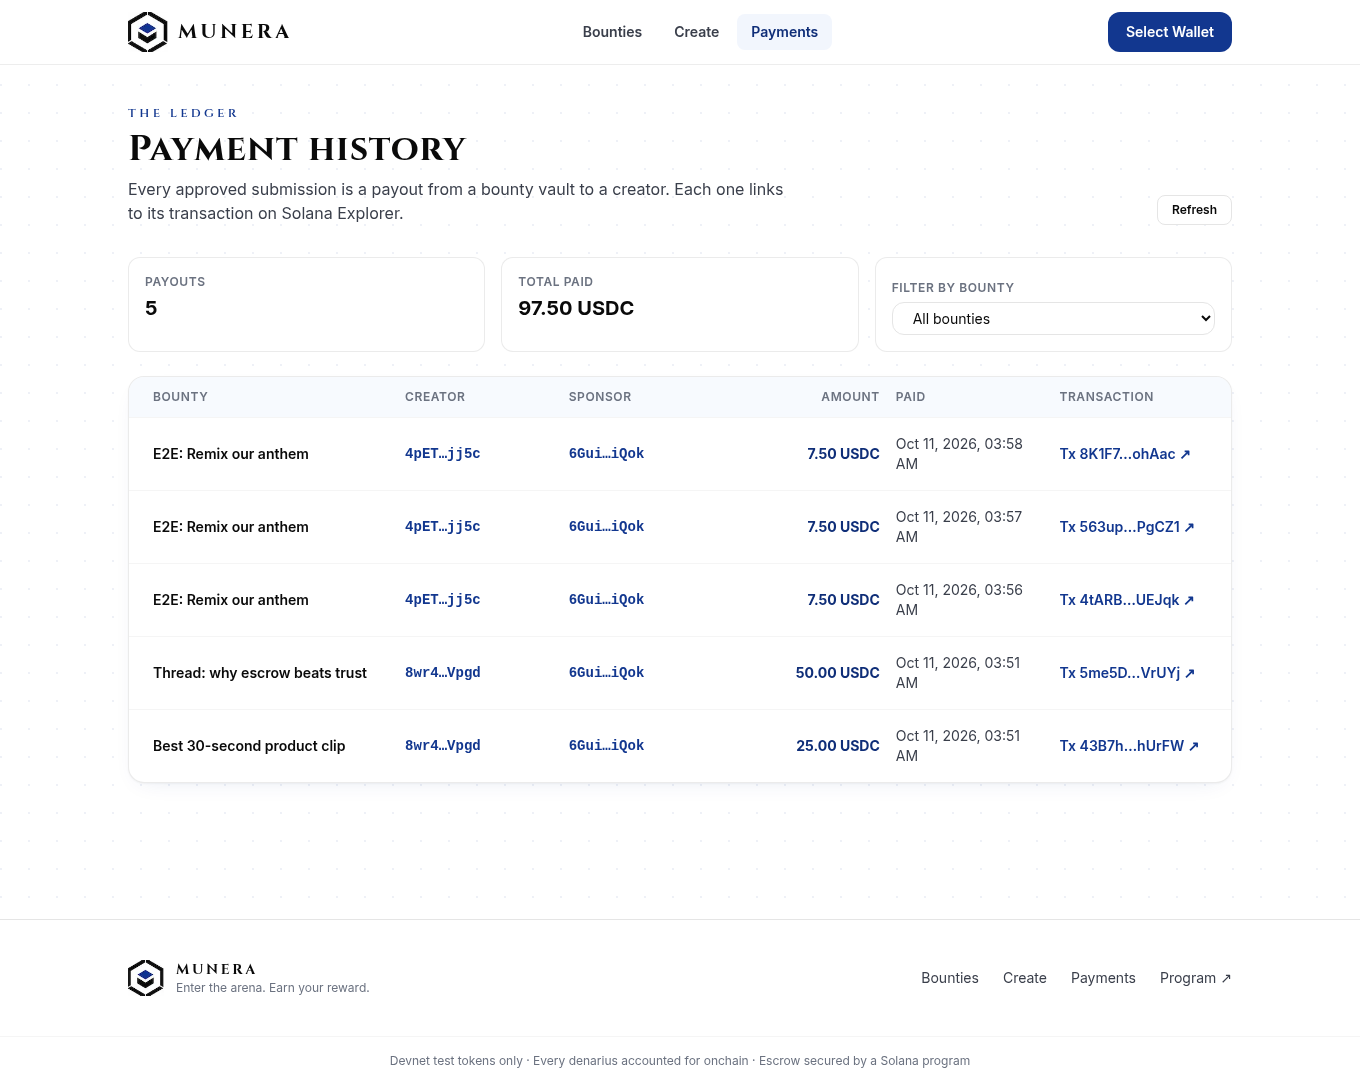
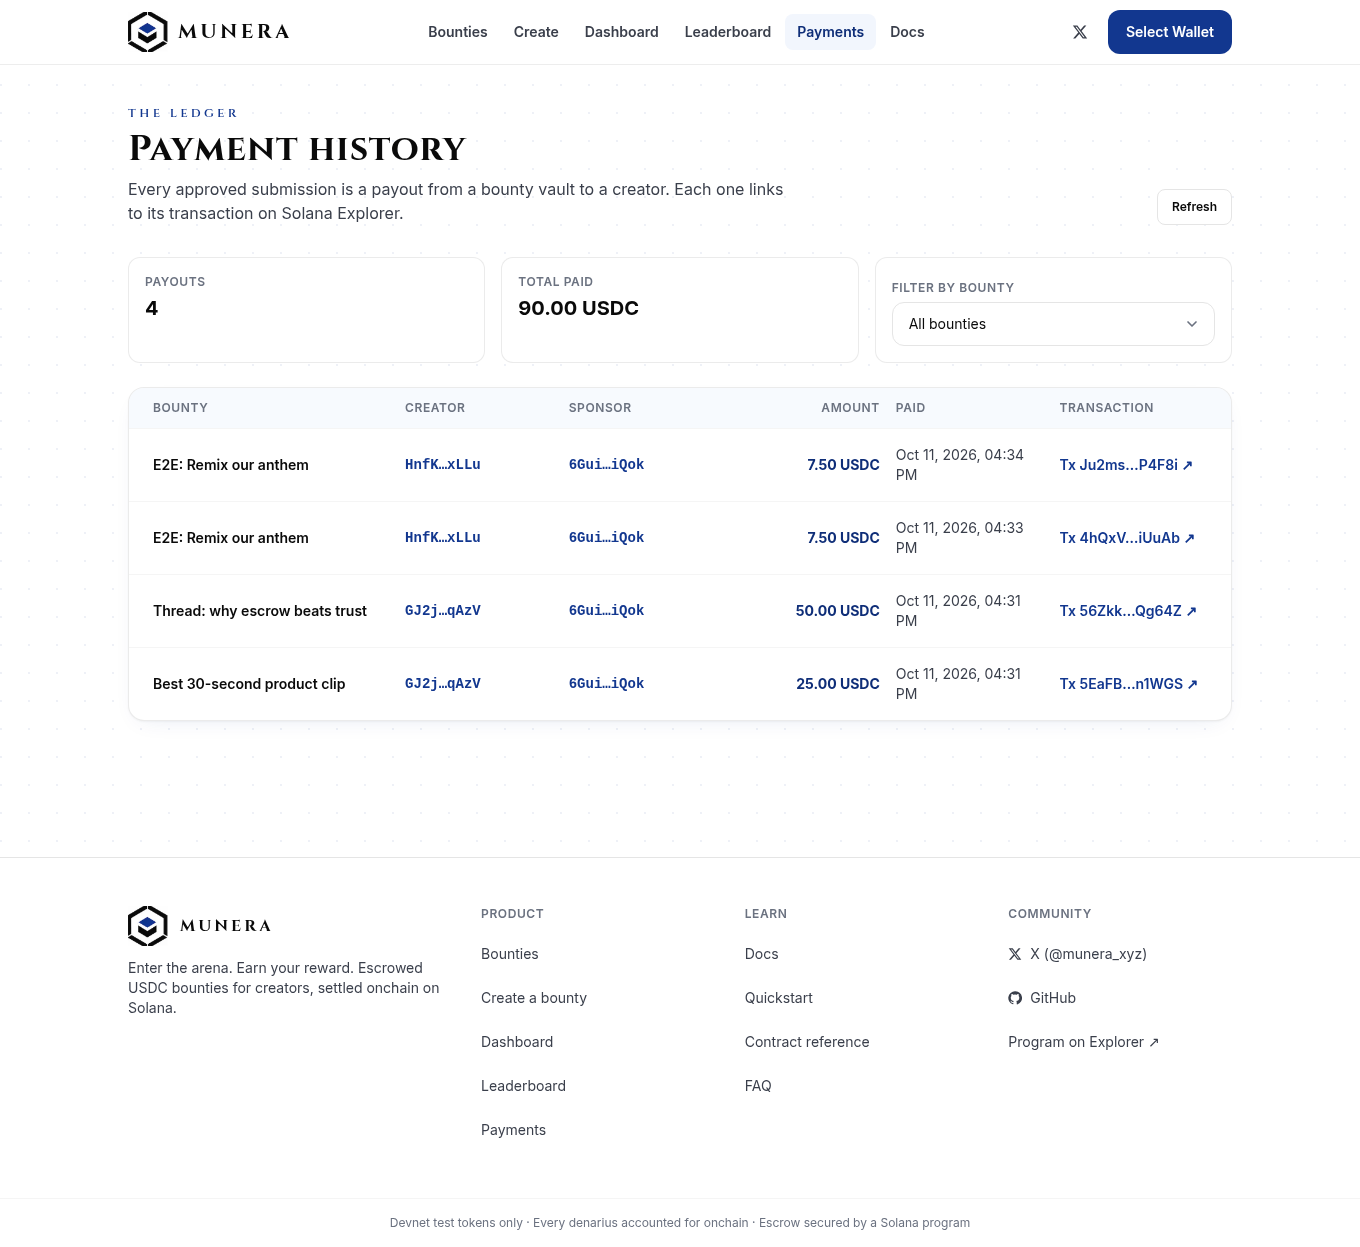
README features/docs/X links, e2e + data verification for new pages, screenshots

diff --git a/app/scripts/e2e.ts b/app/scripts/e2e.ts
@@ -167,6 +167,48 @@ async function main() {
   await shot(page, "bounty-closed");
   await ctx.close();
 
+  // ---- 5b. New pages: filters, leaderboard, creator profile, dashboard, share ----
+  ctx = await newCtx(browser, sponsor);
+  page = await ctx.newPage(); watch(page, "pages");
+  await page.goto(`${APP}/?q=thread&sort=reward`, { waitUntil: "networkidle" });
+  await page.waitForSelector("text=Bounty board");
+  await page.waitForTimeout(1500);
+  const filteredCards = await page.$$eval("h3 a[href^='/bounty/']", (as) => as.length);
+  log("home filtered cards (q=thread)", filteredCards);
+  if (filteredCards < 1) throw new Error("search/filter returned nothing");
+  await page.fill('input[type="search"]', "zzzz-nothing");
+  await page.waitForSelector("text=No bounties match", { timeout: 10000 });
+  if (!page.url().includes("q=zzzz-nothing")) throw new Error("search not persisted in URL");
+  log("search persisted in URL:", new URL(page.url()).search);
+  const shareHref = await page.goto(`${APP}/bounty/${seed.bounties.b1}`, { waitUntil: "networkidle" }).then(() => page.getAttribute("a:has-text('Share on X')", "href"));
+  log("share href", shareHref);
+  if (!shareHref || !shareHref.startsWith("https://twitter.com/intent/tweet?text=") || !shareHref.includes("%40munera_xyz")) throw new Error("bad share url");
+  const og = await page.getAttribute('meta[property="og:image"]', "content");
+  const tw = await page.getAttribute('meta[name="twitter:card"]', "content");
+  log("og:image", og, "twitter:card", tw);
+  if (tw !== "summary_large_image") throw new Error("twitter card meta missing");
+  await page.goto(`${APP}/leaderboard`, { waitUntil: "networkidle" });
+  await page.waitForSelector("a:has-text('Profile')");
+  await shot(page, "leaderboard");
+  await page.click("a:has-text('Profile')");
+  await page.waitForSelector("text=Creator profile");
+  await page.waitForSelector("text=Total earned");
+  await shot(page, "creator-profile");
+  await page.goto(`${APP}/dashboard`, { waitUntil: "networkidle" });
+  await page.waitForSelector("text=My bounties");
+  await page.waitForSelector("a:has-text('Open')", { timeout: 30000 });
+  await shot(page, "dashboard-bounties");
+  await page.click("[role=tab]:has-text('My submissions')");
+  await page.waitForTimeout(1500);
+  await shot(page, "dashboard-submissions");
+  await ctx.close();
+  ctx = await newCtx(browser);
+  page = await ctx.newPage(); watch(page, "dash-anon");
+  await page.goto(`${APP}/dashboard`, { waitUntil: "networkidle" });
+  await page.waitForSelector("text=Connect your wallet");
+  await shot(page, "dashboard-connect");
+  await ctx.close();
+
   // ---- 6. Wallet without USDC ----
   ctx = await newCtx(browser, Keypair.generate());
   page = await ctx.newPage(); watch(page, "nousdc");

diff --git a/app/scripts/verify-data.ts b/app/scripts/verify-data.ts
@@ -8,6 +8,7 @@ import { getProgram } from "../src/lib/program";
 import {
   bountyState, fetchBounties, fetchBounty, fetchPayments, fetchSubmissions, fetchVaultBalance,
   findPayoutSignature, slotsLeft, submissionState,
+  computeCreatorStats, computeLeaderboard, computePlatformStats, fetchAllSubmissions, fetchSubmissionsByCreator,
 } from "../src/lib/data";
 import { formatUnits, parseUnits } from "../src/lib/format";
 import { friendlyError } from "../src/lib/errors";
@@ -44,6 +45,22 @@ async function main() {
     assert(tx?.meta?.logMessages?.some((l) => l.includes("ApproveSubmission")), "sig is the approve tx");
   }
   assert(pays.every((p) => p.bounty));
+
+  // leaderboard / profile / platform stats
+  const allSubs = await fetchAllSubmissions(program);
+  const board = computeLeaderboard(allSubs);
+  const stats = computePlatformStats(bounties, allSubs, now);
+  console.log(`leaderboard: ${board.length} creators; paid=${formatUnits(stats.paid)} payouts=${stats.payouts} escrowed=${formatUnits(stats.escrowed)}`);
+  for (let i = 1; i < board.length; i++) assert(board[i - 1].earned.cmp(board[i].earned) >= 0, "leaderboard sorted by earned desc");
+  const sumEarned = board.reduce((a, c) => a + BigInt(c.earned.toString()), 0n);
+  assert.equal(sumEarned, BigInt(stats.paid.toString()), "sum of leaderboard earnings == total paid (reward*paid_count)");
+  assert.equal(board.reduce((a, c) => a + c.approved, 0), stats.payouts);
+  assert.equal(computeCreatorStats(allSubs).length, stats.creators);
+  for (const c of board) {
+    const mine = await fetchSubmissionsByCreator(program, c.creator);
+    assert(mine.every((x) => x.creator.equals(c.creator)), "memcmp creator filter");
+    assert.equal(mine.length, c.approved + c.pending + c.rejected);
+  }
 
   assert.equal(parseUnits("12.5")?.toString(), "12500000");
   assert.equal(parseUnits("0.0000001"), null);

diff --git a/README.md b/README.md
@@ -25,8 +25,19 @@ A 2-minute demo script, hackathon submission description, and 5-slide pitch outl
 Next.js 14 (App Router) + TypeScript + Tailwind, light theme matching `assets/logo.png`. No backend or database: every page
 reads straight from the program's onchain accounts (`bounty`, `submission`, vault token accounts) via `@coral-xyz/anchor`.
 
-Routes: `/` bounty board · `/create` sponsor form · `/bounty/[address]` details, submit, approve/reject, reclaim · `/payments` payout ledger
-(Approved submissions + payout tx found with `getSignaturesForAddress` on the Submission PDA; `?bounty=<address>` filters).
+**Links:** [Live site](https://munera-opal.vercel.app) · [Docs](https://munera-opal.vercel.app/docs) · [X @munera_xyz](https://x.com/munera_xyz?s=11) · [GitHub](https://github.com/demir-sama/munera)
+
+### Features
+- **Bounty board** (`/`): search by title, status filter (All/Open/Filled/Expired/Closed) and sort (Newest, Highest reward, Ending soon, Most slots left), persisted in the URL (`?q=&status=&sort=`). Landing sections: About, Features, How it works, FAQ, CTA.
+- **Create** (`/create`), **Bounty page** (`/bounty/[address]`: submit, approve/reject, reclaim, **Share on X** + **Copy link**), **Payments** (`/payments`: payout ledger with Explorer links; `?bounty=<address>` filters).
+- **Leaderboard** (`/leaderboard`): creators ranked by USDC earned (approved clips, bounties won, copyable wallet, profile link) plus platform stats.
+- **Creator profile** (`/creator/[address]`): total earned, approved/pending/rejected counts, submissions with payout Explorer links.
+- **Dashboard** (`/dashboard`, wallet required): *My bounties* (vault balance, slots left, pending reviews, reclaim eligibility) and *My submissions*.
+- **Docs** (`/docs`, `/docs/[slug]`): 13 pages (quickstart, concepts, guides, payments & verification, smart contract reference, security model, architecture, devnet addresses, roadmap, FAQ). Content is a typed data file, `app/src/lib/docs.ts` (no MDX), so keep it in sync with `programs/munera/src/lib.rs`.
+- **Social/SEO:** Open Graph + Twitter `summary_large_image` metadata site-wide (`app/public/og.png`) and per-bounty `generateMetadata` (read from chain on the server, static fallback).
+- **Mobile/Android:** responsive navbar with drawer (wallet inside), no horizontal overflow, 44px touch targets, 16px inputs, normalised `datetime-local`, tables become stacked cards, `viewport-fit=cover` + safe-area insets, `100dvh`, reduced-motion support, toasts at the top on phones, and an "Open in Phantom / Solflare" in-app-browser help note (mobile Chrome has no wallet extensions).
+
+All data comes from onchain accounts; the leaderboard, profiles and dashboard are computed client-side (`src/lib/data.ts`).
 
 ### Setup
     cd app
@@ -41,6 +52,7 @@ Routes: `/` bounty board · `/create` sponsor form · `/bounty/[address]` detail
 | `NEXT_PUBLIC_PROGRAM_ID` | `48KEXpcdXgpeqTaZW2whYrWz823yewZxAr3x4cYh4S3W` | Deployed Munera program |
 | `NEXT_PUBLIC_USDC_MINT` | _(unset; devnet value in `.env.example`)_ | Test USDC mint from `yarn create-mint`. Required to create bounties; the Create page shows a notice when unset |
 | `NEXT_PUBLIC_CLUSTER` | `devnet` | Only affects Explorer links (`devnet`, `mainnet-beta`, or `localnet` for a custom-URL cluster) |
+| `NEXT_PUBLIC_SITE_URL` | `https://munera-opal.vercel.app` | Public site URL used for share links and Open Graph metadata |
 
 Wallets: Phantom and Solflare (any wallet-standard wallet is also detected). Code map: `src/lib/program.ts` (Program builder,
 read-only provider when disconnected), `src/lib/pda.ts` (seeds from `lib.rs`), `src/lib/data.ts` (account reads), `src/lib/errors.ts`
@@ -60,6 +72,7 @@ read-only provider when disconnected), `src/lib/pda.ts` (seeds from `lib.rs`), `
     pnpm verify:data    # runs the frontend's data helpers against the validator and asserts invariants
     NEXT_PUBLIC_RPC_URL=http://127.0.0.1:8899 NEXT_PUBLIC_CLUSTER=localnet NEXT_PUBLIC_USDC_MINT=<mint> pnpm build
     NEXT_PUBLIC_RPC_URL=... pnpm exec next start -p 3100 &
+    pnpm tsx scripts/mobile.ts   # Android-emulation audit: overflow check on every route at 360x640/360x800/390x844/412x915 + mobile-*.png screenshots
     pnpm e2e            # headless Chrome + injected fake Phantom: create -> submit -> approve -> reclaim; writes ../screenshots/*.png
 `e2e` needs Google Chrome at `/usr/bin/google-chrome` (edit `scripts/e2e.ts` otherwise).
 
@@ -72,7 +85,7 @@ read-only provider when disconnected), `src/lib/pda.ts` (seeds from `lib.rs`), `
 ### Live deployment
 Source: https://github.com/demir-sama/munera (branch `main`).
 Production URL: **https://munera-opal.vercel.app** (Vercel project `munera`, team `sama-5806`, deployment protection off, devnet env vars set).
-The deployment was created from local files (no Git remote is linked), so redeploys are manual until a GitHub repo is connected.
+Pushing to `main` auto-deploys through the Vercel Git integration (root directory `app`).
 
 ### Devnet deployment
 | Item | Value |
